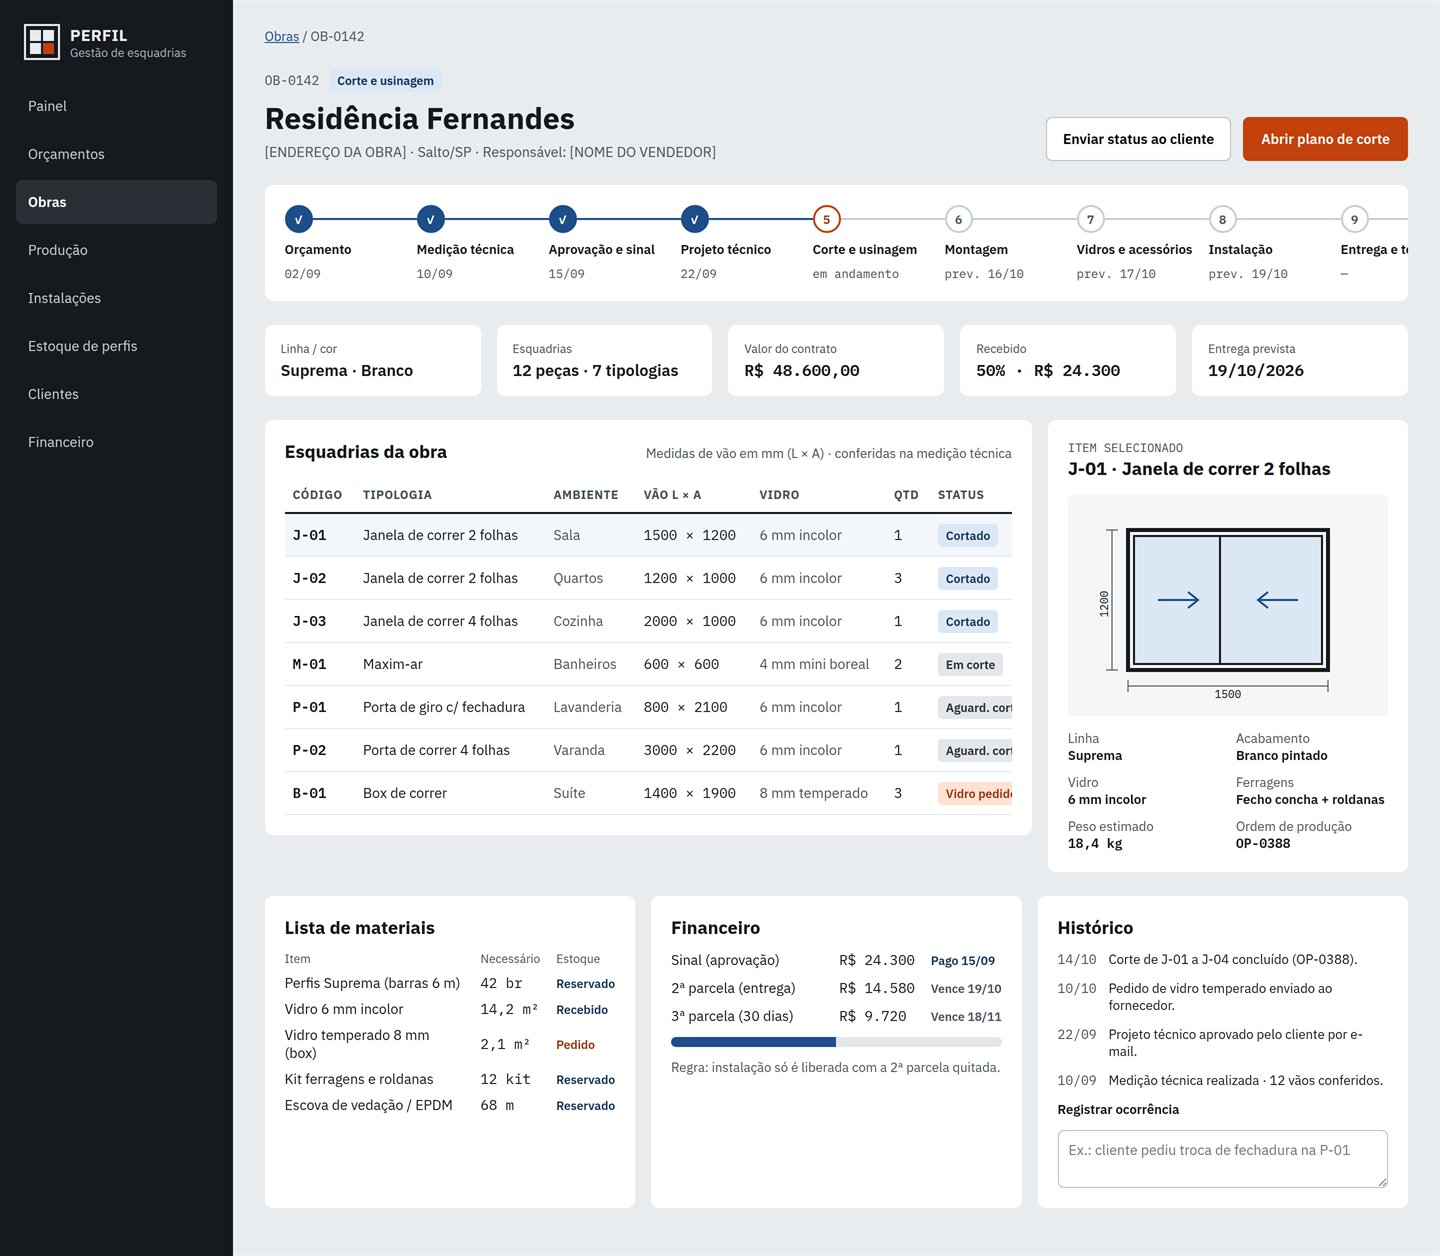
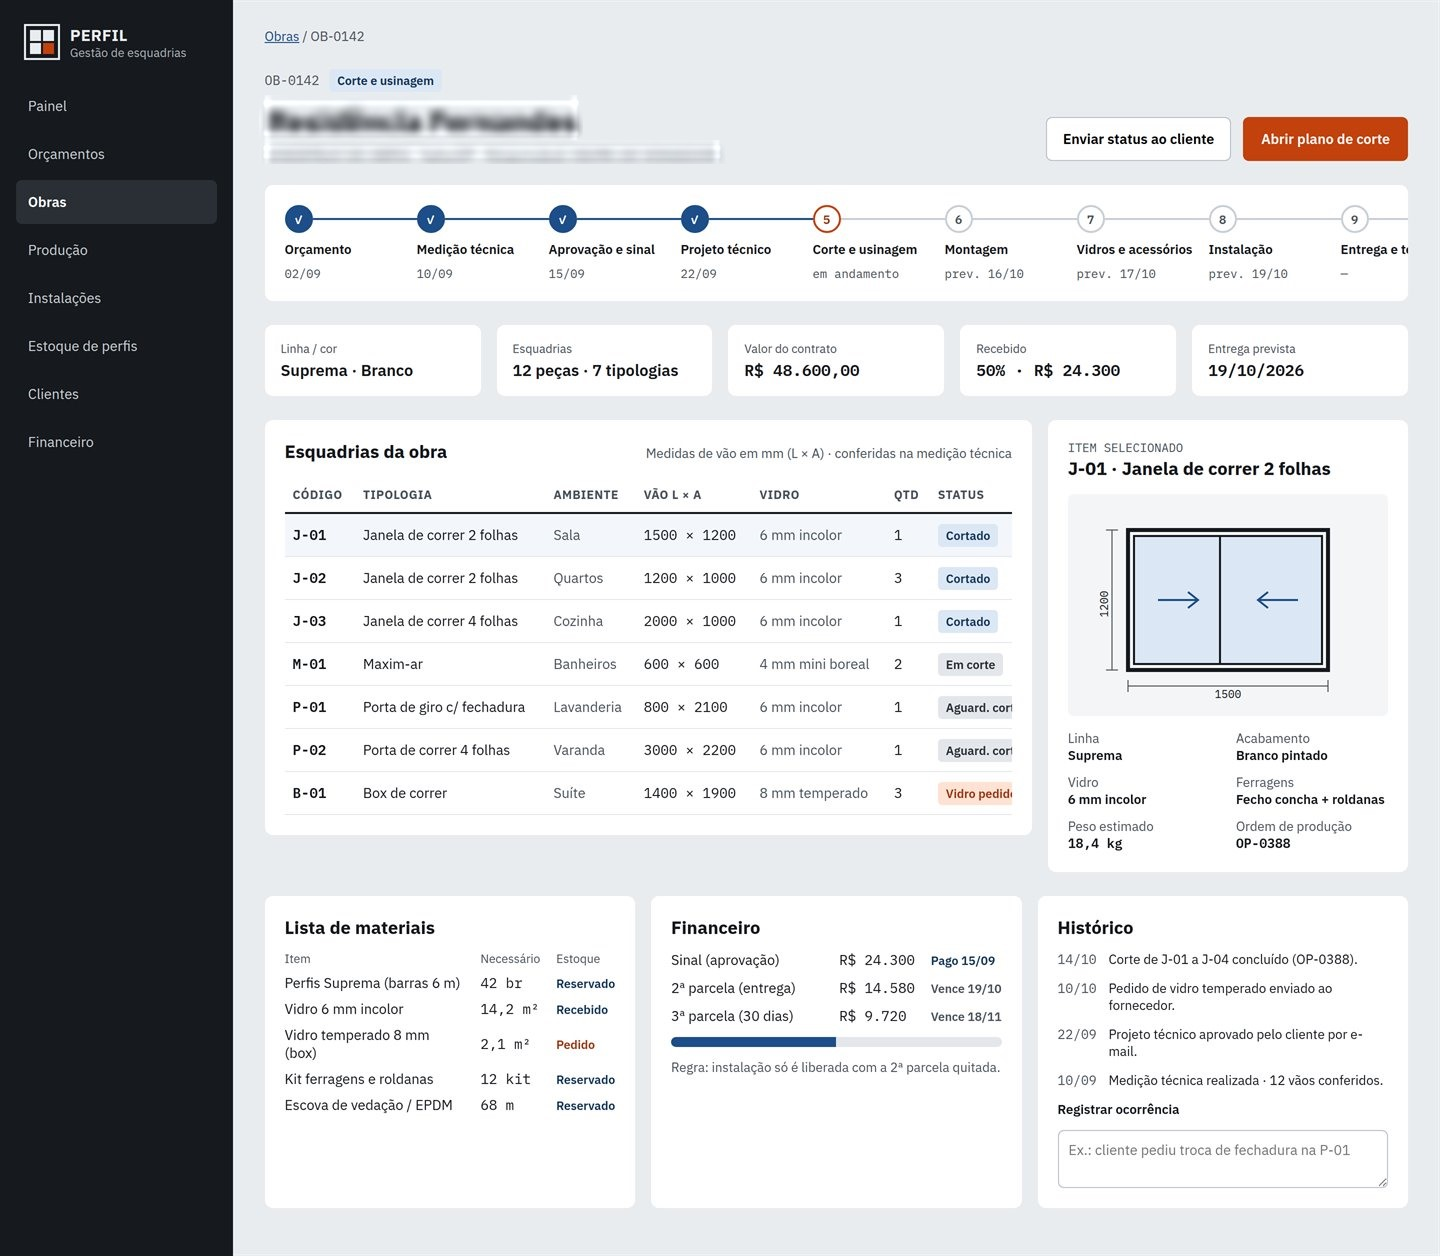
Atualiza portfolio: dados anonimizados, imagens otimizadas e remove arquivos nao usados

Changed region(s): [[0.1875, 0.0621, 0.5, 0.1553]]

diff --git a/index.html b/index.html
@@ -674,7 +674,7 @@
               <img src="img/orcamento/08-orcamento-totais-acoes.jpg" alt="Totais do orçamento com opções de enviar o PDF pelo WhatsApp, gerar PDF e enviar por e-mail" width="375" height="812" loading="lazy">
             </div></div>
           </div>
-          <p class="media-caption">Do primeiro acesso ao orçamento pronto para enviar, com dados de exemplo</p>
+          <p class="media-caption">Do primeiro acesso ao orçamento pronto para enviar, com dados anonimizados</p>
           <ul class="thumbs" aria-label="Mais telas do ObraFácil">
             <li><button type="button" data-full="img/orcamento/04-orcamentos.jpg" data-alt="Lista de orçamentos com filtros por status e lembrete para retomar contato"><img src="img/orcamento/04-orcamentos.jpg" alt="" width="375" height="812" loading="lazy"><span>Orçamentos</span></button></li>
             <li><button type="button" data-full="img/orcamento/10-wizard-cliente.jpg" data-alt="Passo 1 de 3 do novo orçamento: cliente e obra"><img src="img/orcamento/10-wizard-cliente.jpg" alt="" width="375" height="812" loading="lazy"><span>Passo 1: cliente</span></button></li>
@@ -773,7 +773,7 @@
               <img src="img/esquadrias/04-app-instalador.jpg" alt="App da equipe de instalação com os itens da obra para marcar como instalados" width="390" height="844" loading="lazy">
             </div></div>
           </div>
-          <p class="media-caption">Painel da semana no computador e app do instalador no celular, com dados de demonstração</p>
+          <p class="media-caption">Painel da semana no computador e app do instalador no celular, com dados anonimizados</p>
           <ul class="thumbs thumbs-wide" aria-label="Mais telas do sistema de esquadrias">
             <li><button type="button" data-full="img/esquadrias/02-detalhe-da-obra.jpg" data-alt="Ficha da obra com etapas, esquadrias e medidas, lista de materiais, financeiro e histórico"><img src="img/esquadrias/02-detalhe-da-obra.jpg" alt="" width="1440" height="1256" loading="lazy"><span>Ficha da obra</span></button></li>
             <li><button type="button" data-full="img/esquadrias/03-producao-plano-de-corte.jpg" data-alt="Produção com fila de ordens, plano de corte otimizado e checklist de qualidade"><img src="img/esquadrias/03-producao-plano-de-corte.jpg" alt="" width="1440" height="1109" loading="lazy"><span>Produção e corte</span></button></li>
